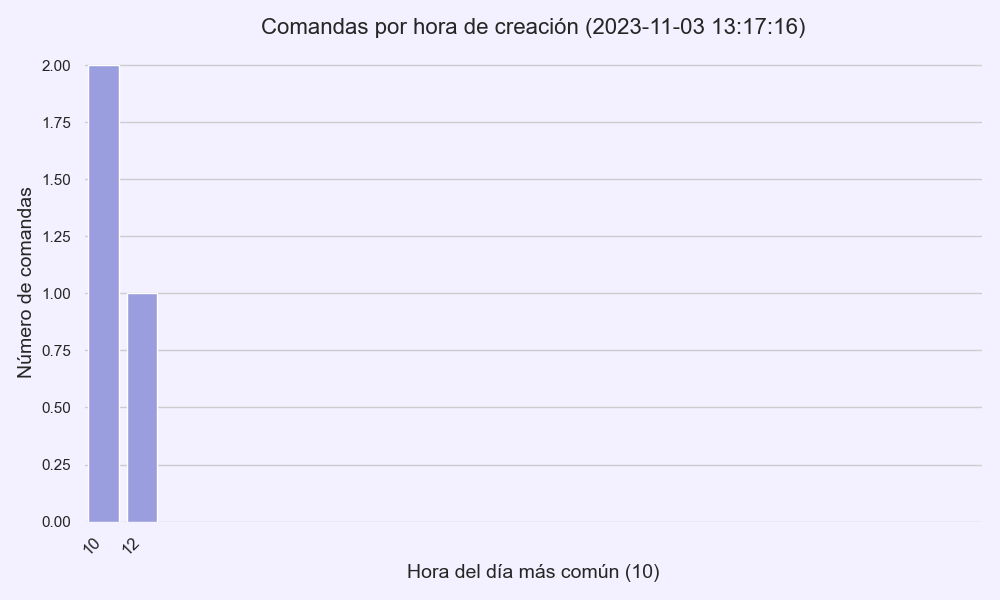
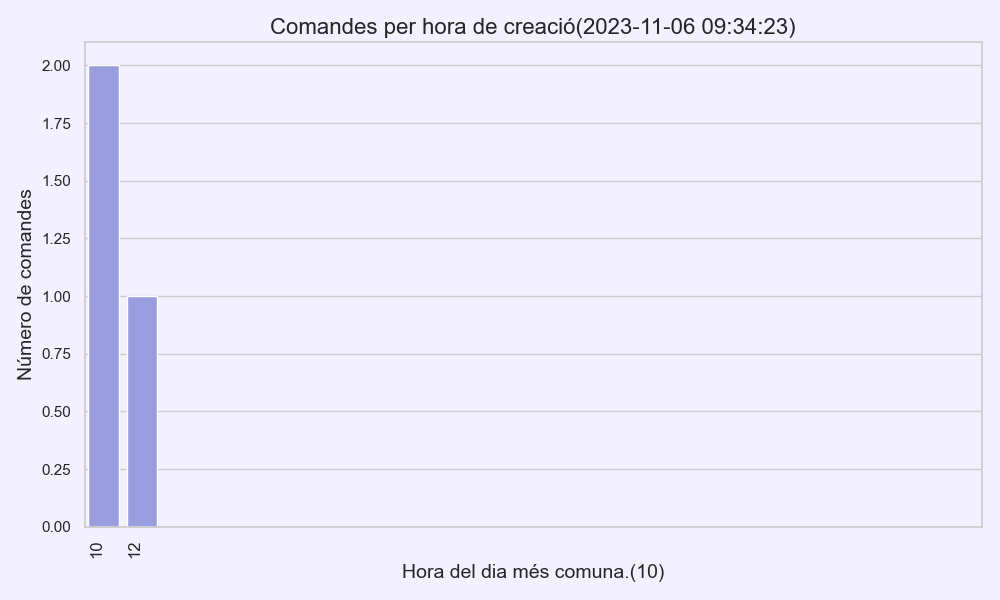
diseny estadistiques

diff --git a/frontend/vuetify/src/components/Statistics.vue b/frontend/vuetify/src/components/Statistics.vue
@@ -1,47 +1,61 @@
-<script setup>
-</script>
+<script setup></script>
 
 <script>
-
-
 export default {
   data() {
     return {
-      fotoQuantitats: 'http://localhost:3001/api/getImatgeEstadistiques/producteCantidad',
-      fotoQuantitatsVenudes: 'http://localhost:3001/api/getImatgeEstadistiques/producteMesVenut',
-      fotoHoraComu: 'http://localhost:3001/api/getImatgeEstadistiques/HoraMesComu?'
+      fotoQuantitats:
+        "http://localhost:3001/api/getImatgeEstadistiques/producteCantidad",
+      fotoQuantitatsVenudes:
+        "http://localhost:3001/api/getImatgeEstadistiques/producteMesVenut",
+      fotoHoraComu:
+        "http://localhost:3001/api/getImatgeEstadistiques/HoraMesComu?",
+      dialog1: false,
+      dialog2: false,
+      dialog3: false,
     };
   },
   methods: {
     executeStatistics() {
-      fetch('http://localhost:3001/api/executeStatistics')
-        .then(response => {
+      fetch("http://localhost:3001/api/executeStatistics")
+        .then((response) => {
           if (!response.ok) {
-            throw new Error('Network response was not ok');
+            throw new Error("Network response was not ok");
           }
           return response.json();
         })
-        .then(data => {
+        .then((data) => {
           // Handle a successful response here
           var rand = Math.random(100000);
-          console.log('Response from /api/executeStatistics:', data);
-        
-          this.fotoQuantitats = 'http://localhost:3001/api/getImatgeEstadistiques/producteCantidad?'+rand;
-          this.fotoQuantitatsVenudes = 'http://localhost:3001/api/getImatgeEstadistiques/producteMesVenut?'+rand;
-          this.fotoHoraComu = 'http://localhost:3001/api/getImatgeEstadistiques/HoraMesComu?'+rand;
-        
+          console.log("Response from /api/executeStatistics:", data);
+
+          this.fotoQuantitats =
+            "http://localhost:3001/api/getImatgeEstadistiques/producteCantidad?" +
+            rand;
+          this.fotoQuantitatsVenudes =
+            "http://localhost:3001/api/getImatgeEstadistiques/producteMesVenut?" +
+            rand;
+          this.fotoHoraComu =
+            "http://localhost:3001/api/getImatgeEstadistiques/HoraMesComu?" +
+            rand;
+
           // You can update your UI or perform other actions with the response data.
         })
-        .catch(error => {
+        .catch((error) => {
           // Handle errors here
-          console.error('Error executing statistics:', error);
+          console.error("Error executing statistics:", error);
           // You can show an error message or perform error handling.
         });
     },
   },
 };
 </script>
-
+<style>
+.image-card {
+  width: auto;
+  padding: 0;
+}
+</style>
 <template>
   <v-container class="order-container">
     <h1 class="text-center text-h2 my-16 pt-10 font-weight-bold">
@@ -49,40 +63,109 @@ export default {
     </h1>
     <v-container>
       <v-card
-        style="
-          background: linear-gradient(#9094e9, #b0b8f1);
-          
-        "
+        style="background: linear-gradient(#9094e9, #b0b8f1)"
         class="text-center"
         elevation="4"
         rounded="xl"
       >
         <v-card-title>
-          <div
-            class="font-weight-bold text-center text-h3 py-6 text-truncate"
-            style="color: #3d3976"
-          >
-            Estadístiques
-          </div>
-          <v-img
-            height="600"
-            :src="this.fotoQuantitats"
-          >
-          </v-img>
-          <br>
-          <br>
-          <v-img
-            height="600"
-            :src="this.fotoQuantitatsVenudes"
-          >          
-          </v-img>
-          <br>
-          <br>
-          <v-img
-            height="600"
-            :src="this.fotoHoraComu"
-          >          
-          </v-img>
+          <v-container>
+            <v-row>
+              <v-col cols="12" sm="4">
+                <div
+                  class="font-weight-bold text-center text-h4 py-4 text-truncate"
+                  style="color: #3d3976"
+                >
+                  Productes Restants
+                </div>
+                <v-dialog v-model="dialog1" width="800">
+                  <template v-slot:activator="{ props }">
+                    <v-card
+                      class="image-card"
+                      style="
+                        background: linear-gradient(#b0b8f1, #ced4f7);
+                        padding: 0;
+                        width: auto;
+                      "
+                      elevation="10"
+                      rounded="xl"
+                      @click="dialog1 = true"
+                    >
+                      <v-img height="238" :src="this.fotoQuantitats"></v-img>
+                      <!-- Puedes agregar un texto o contenido adicional aquí si lo deseas -->
+                    </v-card>
+                  </template>
+                  <v-card>
+                    <v-img height="480" :src="this.fotoQuantitats"></v-img>
+                  </v-card>
+                </v-dialog>
+              </v-col>
+              <v-col cols="12" sm="4">
+                <div
+                  class="font-weight-bold text-center text-h4 py-4 text-truncate"
+                  style="color: #3d3976"
+                >
+                Unitats Venudes
+                </div>
+                <v-dialog v-model="dialog2" width="800">
+                  <template v-slot:activator="{ props }">
+                    <v-card
+                      class="image-card"
+                      style="
+                        background: linear-gradient(#b0b8f1, #ced4f7);
+                        padding: 0;
+                        width: auto;
+                      "
+                      elevation="10"
+                      rounded="xl"
+                      @click="dialog2 = true"
+                    >
+                      <v-img
+                        height="238"
+                        :src="this.fotoQuantitatsVenudes"
+                      ></v-img>
+                      <!-- Puedes agregar un texto o contenido adicional aquí si lo deseas -->
+                    </v-card>
+                  </template>
+                  <v-card>
+                    <v-img
+                      height="480"
+                      :src="this.fotoQuantitatsVenudes"
+                    ></v-img>
+                  </v-card>
+                </v-dialog>
+              </v-col>
+              <v-col cols="12" sm="4">
+                <div
+                  class="font-weight-bold text-center text-h4 py-4 text-truncate"
+                  style="color: #3d3976"
+                >
+                  Hores Comunes
+                </div>
+                <v-dialog v-model="dialog3" width="800">
+                  <template v-slot:activator="{ props }">
+                    <v-card
+                      class="image-card"
+                      style="
+                        background: linear-gradient(#b0b8f1, #ced4f7);
+                        padding: 0;
+                        width: auto;
+                      "
+                      elevation="10"
+                      rounded="xl"
+                      @click="dialog3 = true"
+                    >
+                      <v-img height="238" :src="this.fotoHoraComu"></v-img>
+                      <!-- Puedes agregar un texto o contenido adicional aquí si lo deseas -->
+                    </v-card>
+                  </template>
+                  <v-card>
+                    <v-img height="480" :src="this.fotoHoraComu"></v-img>
+                  </v-card>
+                </v-dialog>
+              </v-col>
+            </v-row>
+          </v-container>
           <v-container align="center" justify="center">
             <v-sheet class="ma-2" style="background: transparent">
               <v-btn
@@ -93,7 +176,6 @@ export default {
                 style="
                   background: linear-gradient(to left, #e8321a, #ff7a68);
                   color: white;
-                  
                 "
                 @click="executeStatistics"
                 >Actualitza

diff --git a/backend/node/estadistiques.py b/backend/node/estadistiques.py
@@ -45,38 +45,52 @@ def obtener_productos_vendidos(cursor):
     return cursor.fetchall()
 
 
-def graficoCantidadVendida(df,filename):
-    """Crea un grafico de barras a partir de un DataFrame"""
-    plt.figure(figsize=(10, 6))
-    plt.bar(df['producto'], df['cantidad_vendida'])
-   
-    # Obtiene la fecha actual
+def graficoCantidadVendida(df, filename):
+    """Crea un gráfico de barras a partir de un DataFrame."""
+    plt.figure(figsize=(10, 6), facecolor='#f3f1ff')  # Establecer el color de fondo de toda la figura
+    
+    # Crear un gráfico de barras con puntas redondas y color personalizado
+    plt.bar(df['producto'], df['cantidad_vendida'], color='#9094e9', capstyle='round')
+    
+    # Obtener la fecha actual
     fecha_actual = datetime.now().strftime('%Y-%m-%d %H:%M:%S')
    
-    # Utiliza la fecha actual en el título del gráfico
-    plt.title(f'Cantidad de unidades Vendidas por producto ({fecha_actual})')
+    # Utilizar la fecha actual en el título del gráfico
+    plt.title(f'Unitats venudes per producte.({fecha_actual})', fontsize=16)
    
-    plt.xticks(rotation=45)
-    plt.xlabel('Producto')
-    plt.ylabel('Cantidad')
+    plt.xticks(rotation=90, fontsize=12)
+    plt.xlabel('Producte', fontsize=14)
+    plt.ylabel('Quantitat', fontsize=14)
+    
+    # Eliminar la cuadrícula horizontal
+    plt.grid(axis='y', linestyle='--', alpha=0.7)
+    
+    # Guardar la figura en un archivo
     plt.tight_layout()
     plt.savefig(filename)
     plt.close()
     
 def graficoCantidad(df, filename):
     """Crea un gráfico de barras a partir de un DataFrame."""
-    plt.figure(figsize=(10, 6))
-    plt.bar(df['nom'], df['quantitat'])
-   
-    # Obtiene la fecha actual
+    plt.figure(figsize=(10, 6), facecolor='#f3f1ff')  # Establecer el color de fondo de toda la figura
+    
+    # Crear un gráfico de barras con puntas redondas y color personalizado
+    plt.bar(df['nom'], df['quantitat'], color='#9094e9', capstyle='round')
+    
+    # Obtener la fecha actual
     fecha_actual = datetime.now().strftime('%Y-%m-%d %H:%M:%S')
    
-    # Utiliza la fecha actual en el título del gráfico
-    plt.title(f'Cantidad de unidades restantes por producto ({fecha_actual})')
+    # Utilizar la fecha actual en el título del gráfico
+    plt.title(f'Unitats restants productes({fecha_actual})', fontsize=16)
    
-    plt.xticks(rotation=45)
-    plt.xlabel('Producto')
-    plt.ylabel('Cantidad')
+    plt.xticks(rotation=90, fontsize=12)
+    plt.xlabel('Productes', fontsize=14)
+    plt.ylabel('Quantitat', fontsize=14)
+    
+    # Eliminar la cuadrícula horizontal
+    plt.grid(axis='y', linestyle='--', alpha=0.7)
+    
+    # Guardar la figura en un archivo
     plt.tight_layout()
     plt.savefig(filename)
     plt.close()
@@ -102,16 +116,13 @@ def graficHoresComanda(df, filename, hora_mas_comun):
     
     ax = sns.barplot(x=hora_counts.index, y=hora_counts.values, color='#9094e9', capstyle='round')
     
-    plt.title(f'Comandas por hora de creación ({fecha_actual})', fontsize=16)
-    plt.xlabel(f'Hora del día más común ({hora_mas_comun})', fontsize=14)
-    plt.ylabel('Número de comandas', fontsize=14)
+    plt.title(f'Comandes per hora de creació({fecha_actual})', fontsize=16)
+    plt.xlabel(f'Hora del dia més comuna.({hora_mas_comun})', fontsize=14)
+    plt.ylabel('Número de comandes', fontsize=14)
     plt.xticks(range(24), fontsize=12)  # Etiquetas para las 24 horas
     
     # Rotar las etiquetas del eje x para mayor legibilidad
-    ax.set_xticklabels(ax.get_xticklabels(), rotation=45, horizontalalignment='right')
-    
-    # Eliminar la cuadrícula horizontal
-    sns.despine(left=True, bottom=True)
+    ax.set_xticklabels(ax.get_xticklabels(), rotation=90, horizontalalignment='right')
     
     # Guardar la figura en un archivo
     plt.tight_layout()
@@ -119,9 +130,6 @@ def graficHoresComanda(df, filename, hora_mas_comun):
     plt.close()
     
 
-    
-
-    
 def CantidaRestante():
     conexion, cursor = establecer_conexion()
     resultados = obtener_productos_ordenados_cantidad(cursor)
